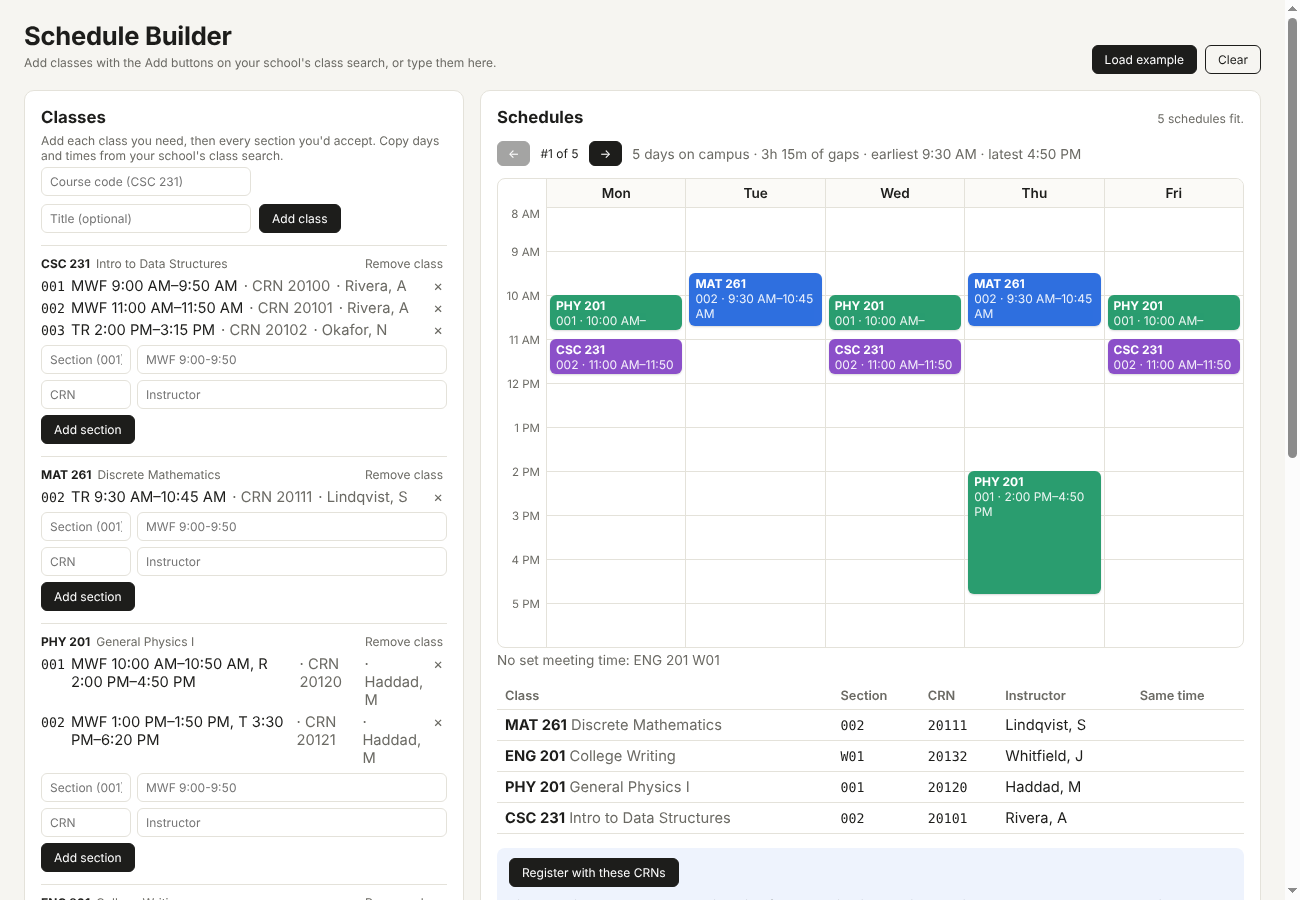
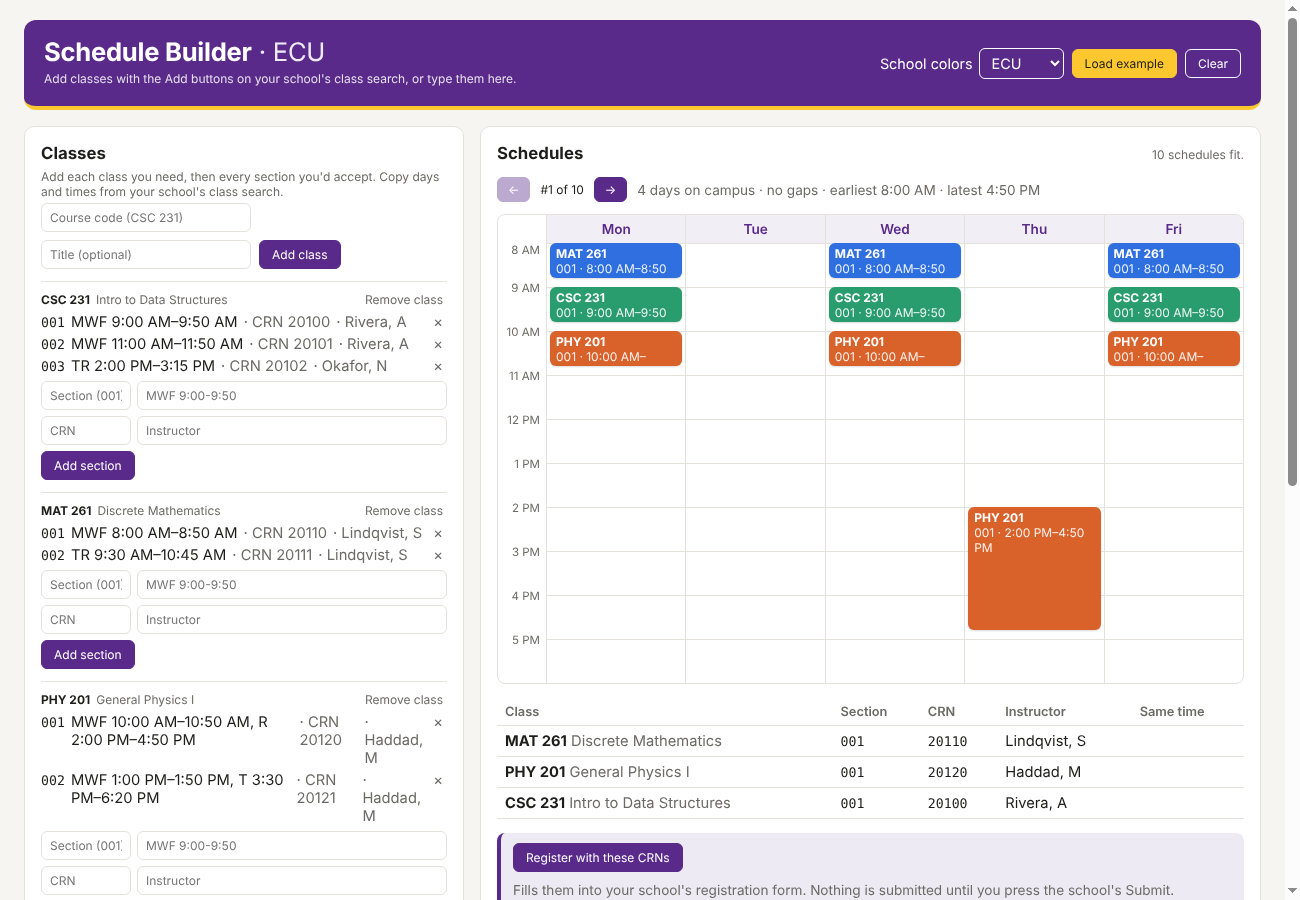
Added the school colors, will need the school webpages from friends (UNCG, UNCW, ECU)

diff --git a/frontend/src/index.css b/frontend/src/index.css
@@ -7,6 +7,9 @@
   --accent: #2f6fdf;
   --error: #b3261e;
   --ok: #1f7a4d;
+  --brand: #1d1d1b;
+  --on-brand: #ffffff;
+  --on-accent: #ffffff;
   font-family: system-ui, -apple-system, "Segoe UI", sans-serif;
   color: var(--ink);
   background: var(--bg);
@@ -14,7 +17,14 @@
 * { box-sizing: border-box; }
 body { margin: 0; }
 .app { max-width: 1320px; margin: 0 auto; padding: 20px 24px 48px; }
-header { display: flex; justify-content: space-between; align-items: flex-end; gap: 16px; margin-bottom: 16px; flex-wrap: wrap; }
+header { display: flex; justify-content: space-between; align-items: center; gap: 16px; margin-bottom: 16px; flex-wrap: wrap;
+  background: var(--brand); color: var(--on-brand); padding: 16px 20px; border-radius: 12px; border-bottom: 4px solid var(--accent); }
+header .muted { color: var(--on-brand); opacity: 0.85; }
+header button { background: var(--accent); color: var(--on-accent); border-color: var(--accent); }
+header button.secondary { background: transparent; color: var(--on-brand); border-color: var(--on-brand); }
+header select { font: inherit; padding: 5px 8px; border-radius: 6px; border: 1px solid var(--on-brand); background: transparent; color: var(--on-brand); }
+header select option { color: #1d1d1b; }
+header label { color: var(--on-brand); }
 h1 { margin: 0; font-size: 1.6rem; letter-spacing: -0.01em; }
 h2 { margin: 0 0 6px; font-size: 1.05rem; }
 h3 { margin: 16px 0 6px; font-size: 0.9rem; color: var(--muted); font-weight: 600; text-transform: uppercase; letter-spacing: 0.04em; }
@@ -37,13 +47,13 @@ input, textarea, select, button { font: inherit; }
 input, textarea { border: 1px solid var(--line); border-radius: 6px; padding: 6px 8px; background: #fff; min-width: 0; }
 input:focus, textarea:focus, button:focus-visible { outline: 2px solid var(--accent); outline-offset: 1px; }
 .narrow { width: 7.5em; }
-button { border: 1px solid var(--ink); background: var(--ink); color: #fff; border-radius: 6px; padding: 6px 12px; cursor: pointer; }
+button { border: 1px solid var(--brand); background: var(--brand); color: var(--on-brand); border-radius: 6px; padding: 6px 12px; cursor: pointer; }
 button:disabled { opacity: 0.4; cursor: default; }
-button.secondary { background: transparent; color: var(--ink); }
+button.secondary { background: transparent; color: var(--brand); }
 button.link { background: none; border: none; color: var(--muted); padding: 0 4px; margin-left: auto; }
 button.link:hover { color: var(--error); }
 .chip { background: #fff; color: var(--ink); border-color: var(--line); padding: 4px 10px; }
-.chip.on { background: var(--accent); border-color: var(--accent); color: #fff; }
+.chip.on { background: var(--brand); border-color: var(--brand); color: var(--on-brand); }
 .day-picker { display: flex; gap: 4px; flex-wrap: wrap; }
 .course { border-top: 1px solid var(--line); margin-top: 12px; padding-top: 10px; }
 .course-head { display: flex; align-items: baseline; gap: 6px; }
@@ -57,7 +67,7 @@ button.link:hover { color: var(--error); }
 .pager button { padding: 4px 10px; }
 .diagnostics { margin: 8px 0; padding-left: 18px; color: var(--error); }
 .week { display: grid; border: 1px solid var(--line); border-radius: 8px; overflow: hidden; }
-.week-head { text-align: center; font-size: 0.85rem; font-weight: 600; padding: 6px 0; border-left: 1px solid var(--line); background: #fbfaf7; }
+.week-head { text-align: center; font-size: 0.85rem; font-weight: 600; padding: 6px 0; border-left: 1px solid var(--line); background: color-mix(in srgb, var(--brand) 8%, white); color: var(--brand); }
 .hours { font-size: 0.72rem; color: var(--muted); text-align: right; }
 .hours div { padding-right: 6px; transform: translateY(-0.5em); }
 .hours div:first-child { transform: none; }
@@ -72,4 +82,6 @@ table { width: 100%; border-collapse: collapse; margin-top: 14px; font-size: 0.9
 th, td { text-align: left; padding: 6px 8px; border-bottom: 1px solid var(--line); }
 th { font-size: 0.8rem; color: var(--muted); font-weight: 600; }
 .export { margin-top: 14px; }
-.register { display: flex; gap: 10px; align-items: center; flex-wrap: wrap; margin-top: 14px; padding: 10px 12px; background: #eef3fd; border-radius: 8px; }
+.register { display: flex; gap: 10px; align-items: center; flex-wrap: wrap; margin-top: 14px; padding: 10px 12px; background: color-mix(in srgb, var(--brand) 10%, white); border-left: 4px solid var(--brand); border-radius: 8px; }
+input[type=range] { accent-color: var(--brand); }
+.school-tag { font-weight: 400; opacity: 0.9; }

diff --git a/frontend/src/extension/content/styles.ts b/frontend/src/extension/content/styles.ts
@@ -1,13 +1,15 @@
 /** Styles live inside a shadow root, so the school's CSS can't break ours and ours can't leak out. */
 export const STYLES = `
-:host { all: initial; font-family: system-ui, -apple-system, "Segoe UI", sans-serif; color: #1d1d1b; }
+:host { all: initial; --brand: #1d1d1b; --on-brand: #fff; --accent: #2f6fdf; --on-accent: #fff; font-family: system-ui, -apple-system, "Segoe UI", sans-serif; color: #1d1d1b; }
 * { box-sizing: border-box; }
 .wrap { margin: 12px 0; padding-bottom: 80px; }
-.toolbar { display: flex; justify-content: space-between; align-items: center; gap: 12px; margin-bottom: 10px; font-size: 14px; }
+.toolbar { display: flex; justify-content: space-between; align-items: center; gap: 12px; margin-bottom: 10px; font-size: 14px;
+  background: var(--brand); color: var(--on-brand); padding: 10px 14px; border-radius: 10px; border-bottom: 3px solid var(--accent); }
+.toolbar button.ghost { color: var(--on-brand); border-color: var(--on-brand); }
 .toolbar strong { font-size: 16px; }
 .cards { display: grid; gap: 12px; }
 .card { background: #fff; border: 1px solid #e4e2da; border-radius: 10px; overflow: hidden; }
-.card-head { display: flex; justify-content: space-between; align-items: center; gap: 12px; padding: 10px 14px; background: #fbfaf7; border-bottom: 1px solid #e4e2da; }
+.card-head { border-left: 4px solid var(--brand); display: flex; justify-content: space-between; align-items: center; gap: 12px; padding: 10px 14px; background: #fbfaf7; border-bottom: 1px solid #e4e2da; }
 .code { font-weight: 700; font-size: 15px; }
 .title { color: #6b6a64; margin-left: 8px; font-size: 14px; }
 table { width: 100%; border-collapse: collapse; font-size: 14px; }
@@ -15,14 +17,14 @@ th { text-align: left; font-size: 12px; color: #6b6a64; font-weight: 600; paddin
 td { padding: 8px 14px; border-top: 1px solid #efede6; vertical-align: top; }
 .mono { font-family: ui-monospace, Consolas, monospace; }
 .muted { color: #6b6a64; }
-button { font: inherit; font-size: 13px; border: 1px solid #1d1d1b; background: #1d1d1b; color: #fff; border-radius: 6px; padding: 5px 12px; cursor: pointer; white-space: nowrap; }
+button { font: inherit; font-size: 13px; border: 1px solid var(--brand); background: var(--brand); color: var(--on-brand); border-radius: 6px; padding: 5px 12px; cursor: pointer; white-space: nowrap; }
 button.ghost { background: transparent; color: #1d1d1b; border-color: #c9c4b6; }
 button.added { background: #e6f4ec; color: #1f7a4d; border-color: #b9dcc8; cursor: default; }
 button:focus-visible { outline: 2px solid #2f6fdf; outline-offset: 1px; }
 .bar { position: fixed; right: 16px; bottom: 16px; z-index: 2147483000; display: flex; align-items: center; gap: 10px;
-  background: #1d1d1b; color: #fff; border-radius: 10px; padding: 10px 14px; font-size: 14px; box-shadow: 0 4px 16px rgb(0 0 0 / 0.25); max-width: 420px; }
-.bar button { background: #fff; color: #1d1d1b; border-color: #fff; }
+  background: var(--brand); color: var(--on-brand); border-bottom: 3px solid var(--accent); border-radius: 10px; padding: 10px 14px; font-size: 14px; box-shadow: 0 4px 16px rgb(0 0 0 / 0.25); max-width: 420px; }
+.bar button { background: var(--accent); color: var(--on-accent); border-color: var(--accent); }
 .pre { white-space: pre-line; }
-.bar button.quiet { background: transparent; color: #fff; border-color: #777; }
+.bar button.quiet { background: transparent; color: var(--on-brand); border-color: var(--on-brand); }
 .bar .note { font-size: 13px; opacity: 0.9; }
 `;

diff --git a/frontend/src/App.tsx b/frontend/src/App.tsx
@@ -4,6 +4,7 @@ import { CourseEditor } from "./components/CourseEditor";
 import { PreferencesPanel } from "./components/PreferencesPanel";
 import { Results } from "./components/Results";
 import { exampleBlocks, exampleCourses } from "./lib/example";
+import { SCHOOLS, SCHOOL_KEY, themeById, themeVars } from "./lib/schools";
 import { solve } from "./lib/solver";
 import { EMPTY_STATE, PENDING_KEY, STATE_KEY, getStore, isExtension, normalizeState, type PendingCrns, type SavedState } from "./lib/storage";
 
@@ -12,6 +13,7 @@ const store = getStore();
 export default function App() {
   const [state, setState] = useState<SavedState>(EMPTY_STATE);
   const [loaded, setLoaded] = useState(false);
+  const [schoolId, setSchoolId] = useState<string>("none");
   // The last value we wrote or received, so our own writes don't echo back as "changes".
   const lastSynced = useRef<string>("");
 
@@ -22,15 +24,28 @@ export default function App() {
       setState(s);
       setLoaded(true);
     });
+    // Which school's colors to use: set automatically when the extension sees a school's site.
+    store.get<string>(SCHOOL_KEY).then((id) => setSchoolId(themeById(id).id));
+    const stopSchool = store.onChange(SCHOOL_KEY, (id) => setSchoolId(themeById(id as string).id));
     // The school page adds classes by writing to the same storage.
-    return store.onChange(STATE_KEY, (raw) => {
+    const stopState = store.onChange(STATE_KEY, (raw) => {
       const s = normalizeState(raw);
       const json = JSON.stringify(s);
       if (json === lastSynced.current) return;
       lastSynced.current = json;
       setState(s);
     });
+    return () => {
+      stopSchool();
+      stopState();
+    };
   }, []);
+
+  useEffect(() => {
+    const theme = themeById(schoolId);
+    for (const [name, value] of Object.entries(themeVars(theme))) document.documentElement.style.setProperty(name, value);
+    document.title = theme.id === "none" ? "Schedule Builder" : `Schedule Builder · ${theme.name}`;
+  }, [schoolId]);
 
   useEffect(() => {
     if (!loaded) return; // never overwrite saved data with the empty starting state
@@ -53,7 +68,7 @@ export default function App() {
     <div className="app">
       <header>
         <div>
-          <h1>Schedule Builder</h1>
+          <h1>Schedule Builder{schoolId !== "none" && <span className="school-tag"> · {themeById(schoolId).name}</span>}</h1>
           <p className="muted">
             {isExtension()
               ? "Add classes with the Add buttons on your school's class search, or type them here."
@@ -61,6 +76,12 @@ export default function App() {
           </p>
         </div>
         <div className="row">
+          <label>School colors
+            <select value={schoolId} onChange={(e) => { setSchoolId(e.target.value); void store.set(SCHOOL_KEY, e.target.value); }}>
+              <option value="none">None</option>
+              {SCHOOLS.map((s) => <option key={s.id} value={s.id}>{s.name}</option>)}
+            </select>
+          </label>
           <button type="button" onClick={() => set({ courses: exampleCourses(), blocks: exampleBlocks() })}>Load example</button>
           <button type="button" className="secondary" onClick={() => {
             if (confirm("Clear all classes, busy times and preferences?")) setState(EMPTY_STATE);

diff --git a/frontend/src/extension/content/main.ts b/frontend/src/extension/content/main.ts
@@ -1,4 +1,5 @@
 import { mergeCourses, normalizeCode } from "../../lib/state";
+import { SCHOOL_KEY, schoolForHost, themeById, type SchoolTheme } from "../../lib/schools";
 import { PENDING_KEY, STATE_KEY, getStore, normalizeState, type PendingCrns, type SavedState } from "../../lib/storage";
 import type { Course, Section } from "../../lib/types";
 import { adapterFor } from "./adapters";
@@ -12,7 +13,7 @@ const PENDING_MAX_AGE_MS = 6 * 60 * 60 * 1000; // stale CRNs from hours ago shou
 
 const store = getStore();
 
-async function run(adapter: SchoolAdapter): Promise<void> {
+async function run(adapter: SchoolAdapter, theme: SchoolTheme): Promise<void> {
   let state: SavedState = normalizeState(await store.get(STATE_KEY));
   let pending = await store.get<PendingCrns>(PENDING_KEY);
   let showingOurs = true;
@@ -46,7 +47,7 @@ async function run(adapter: SchoolAdapter): Promise<void> {
     lastSignature = signature;
 
     if (results && results.courses.length > 0) {
-      const { host, root } = shadowHost(document, RESULTS_HOST);
+      const { host, root } = shadowHost(document, RESULTS_HOST, theme);
       if (host.nextElementSibling !== results.container) results.container.before(host);
       results.container.style.display = showingOurs ? "none" : "";
       renderResults(root, {
@@ -58,7 +59,7 @@ async function run(adapter: SchoolAdapter): Promise<void> {
       document.getElementById(RESULTS_HOST)?.remove();
     }
 
-    const { host: barHost, root: barRoot } = shadowHost(document, BAR_HOST);
+    const { host: barHost, root: barRoot } = shadowHost(document, BAR_HOST, theme);
     if (!barHost.isConnected) document.body.append(barHost);
     if (form && (freshPending || fillMessage)) {
       renderFillBar(barRoot, {
@@ -104,5 +105,26 @@ async function run(adapter: SchoolAdapter): Promise<void> {
   render(true);
 }
 
-const adapter = adapterFor(new URL(location.href));
-if (adapter) void run(adapter);
+/**
+ * The school comes from the site's address (anything under ecu.edu is ECU, and so on).
+ * The made-up test pages can pretend to be a school with ?school=ecu so themes can be tried.
+ */
+async function detectTheme(url: URL, adapter: SchoolAdapter): Promise<SchoolTheme> {
+  const fromHost = schoolForHost(url.hostname);
+  if (fromHost) return fromHost;
+  if (adapter.id === "demo") {
+    const asked = url.searchParams.get("school");
+    return themeById(asked ?? (await store.get<string>(SCHOOL_KEY)));
+  }
+  return themeById(null);
+}
+
+const url = new URL(location.href);
+const adapter = adapterFor(url);
+if (adapter) {
+  void detectTheme(url, adapter).then((theme) => {
+    // Remember it so the planner tab uses the same colors.
+    if (theme.id !== "none") void store.set(SCHOOL_KEY, theme.id);
+    return run(adapter, theme);
+  });
+}

diff --git a/frontend/src/lib/schools.ts b/frontend/src/lib/schools.ts
@@ -1,0 +1,45 @@
+/**
+ * School color themes. Colors come from each school's own brand pages:
+ * ECU purple from brand.ecu.edu; UNCW teal (#007680, updated July 2025) from uncw.edu;
+ * UNCG navy and gold from webassets.uncg.edu. Colors only: no logos or wordmarks.
+ */
+export interface SchoolTheme {
+  id: string;
+  name: string;
+  /** Any web address ending in one of these belongs to the school. */
+  domains: string[];
+  /** Main color (headers, main buttons) and the text color that reads on it. */
+  brand: string;
+  onBrand: string;
+  /** Second color for highlights. */
+  accent: string;
+  onAccent: string;
+}
+
+export const DEFAULT_THEME: SchoolTheme = {
+  id: "none", name: "No school colors", domains: [],
+  brand: "#1d1d1b", onBrand: "#ffffff", accent: "#2f6fdf", onAccent: "#ffffff",
+};
+
+export const SCHOOLS: SchoolTheme[] = [
+  { id: "ecu", name: "ECU", domains: ["ecu.edu"], brand: "#592A8A", onBrand: "#ffffff", accent: "#FDC82F", onAccent: "#1d1d1b" },
+  { id: "uncw", name: "UNCW", domains: ["uncw.edu"], brand: "#007680", onBrand: "#ffffff", accent: "#F3E389", onAccent: "#003366" },
+  { id: "uncg", name: "UNCG", domains: ["uncg.edu"], brand: "#0F2044", onBrand: "#ffffff", accent: "#FFB71B", onAccent: "#0F2044" },
+];
+
+export const SCHOOL_KEY = "schedule-builder:school";
+
+export function themeById(id: string | undefined | null): SchoolTheme {
+  return SCHOOLS.find((s) => s.id === id) ?? DEFAULT_THEME;
+}
+
+/** Which school a web address belongs to, by its domain (any subdomain counts). */
+export function schoolForHost(hostname: string): SchoolTheme | undefined {
+  const host = hostname.toLowerCase();
+  return SCHOOLS.find((s) => s.domains.some((d) => host === d || host.endsWith(`.${d}`)));
+}
+
+/** CSS custom properties for a theme, used by both the planner and the school page. */
+export function themeVars(t: SchoolTheme): Record<string, string> {
+  return { "--brand": t.brand, "--on-brand": t.onBrand, "--accent": t.accent, "--on-accent": t.onAccent };
+}

diff --git a/frontend/src/extension/content/view.ts b/frontend/src/extension/content/view.ts
@@ -1,6 +1,8 @@
 import { formatTime } from "../../lib/time";
 import type { Course, Section } from "../../lib/types";
 import { STYLES } from "./styles";
+import type { SchoolTheme } from "../../lib/schools";
+import { themeVars } from "../../lib/schools";
 
 function el<K extends keyof HTMLElementTagNameMap>(tag: K, props: Partial<HTMLElementTagNameMap[K]> = {}, ...children: Array<Node | string>): HTMLElementTagNameMap[K] {
   const node = Object.assign(document.createElement(tag), props);
@@ -9,13 +11,14 @@ function el<K extends keyof HTMLElementTagNameMap>(tag: K, props: Partial<HTMLEl
 }
 
 /** A host element with a shadow root and our styles. Reused if it already exists. */
-export function shadowHost(doc: Document, id: string): { host: HTMLElement; root: ShadowRoot } {
+export function shadowHost(doc: Document, id: string, theme: SchoolTheme): { host: HTMLElement; root: ShadowRoot } {
   let host = doc.getElementById(id);
   if (!host) {
     host = doc.createElement("div");
     host.id = id;
     host.attachShadow({ mode: "open" });
   }
+  for (const [name, value] of Object.entries(themeVars(theme))) host.style.setProperty(name, value);
   const root = host.shadowRoot!;
   root.replaceChildren(el("style", { textContent: STYLES }));
   return { host, root };

diff --git a/frontend/src/lib/schools.test.ts b/frontend/src/lib/schools.test.ts
@@ -1,0 +1,21 @@
+import { expect, it } from "vitest";
+import { DEFAULT_THEME, schoolForHost, themeById, themeVars } from "./schools";
+
+it("recognizes each school from any of its subdomains", () => {
+  expect(schoolForHost("ssb.ecu.edu")?.id).toBe("ecu");
+  expect(schoolForHost("ECU.EDU")?.id).toBe("ecu");
+  expect(schoolForHost("registration.uncw.edu")?.id).toBe("uncw");
+  expect(schoolForHost("banner.uncg.edu")?.id).toBe("uncg");
+});
+
+it("does not match look-alike domains", () => {
+  expect(schoolForHost("notecu.edu")).toBeUndefined();
+  expect(schoolForHost("ecu.edu.evil.com")).toBeUndefined();
+  expect(schoolForHost("localhost")).toBeUndefined();
+});
+
+it("falls back to the plain theme", () => {
+  expect(themeById("nope")).toBe(DEFAULT_THEME);
+  expect(themeById(undefined)).toBe(DEFAULT_THEME);
+  expect(themeVars(themeById("ecu"))["--brand"]).toBe("#592A8A");
+});

diff --git a/README.md b/README.md
@@ -7,7 +7,7 @@ schedule planning feels at NC State.
 **Status: the extension works end to end on made-up test pages. No real school is supported yet.**
 Each school needs a small "adapter" written from saved copies of its actual pages (see below).
 
-![The planner showing a ranked weekly schedule](docs/screenshot.png)
+![The planner in ECU colors showing a ranked weekly schedule](docs/screenshot.png)
 
 ## How it works
 
@@ -21,6 +21,11 @@ Each school needs a small "adapter" written from saved copies of its actual page
    with the school's own button, so holds, prerequisites and errors are handled by the school.
 
 ![The restyled class search on the test page](docs/extension-class-search.png)
+
+**School colors.** The extension recognizes the school from the site's address (anything under
+ecu.edu, uncw.edu or uncg.edu) and uses that school's colors on its class cards and in the planner:
+ECU purple and gold, UNCW teal and gold, UNCG navy and gold. The planner also has a "School colors"
+menu to pick one by hand. Colors only: no school logos or wordmarks.
 
 The extension only reads pages you already have open while logged in. It never sees your password,
 never contacts any server, and keeps your classes in your own browser.
@@ -52,7 +57,7 @@ A randomized test compares the search against a brute-force version on 500 rando
 ```bash
 cd frontend
 npm install
-npm test          # 63 tests
+npm test          # 66 tests
 npm run build     # creates frontend/dist, the extension
 npm run dev       # serves the made-up test pages at http://localhost:5173/demo/browse.html
 ```
@@ -61,7 +66,8 @@ Load the extension in Chrome or Edge:
 
 1. Go to `chrome://extensions` and turn on **Developer mode** (top right).
 2. Click **Load unpacked** and choose the `frontend/dist` folder.
-3. With `npm run dev` running, open http://localhost:5173/demo/browse.html, add some classes,
+3. With `npm run dev` running, open http://localhost:5173/demo/browse.html (add `?school=ecu`,
+   `?school=uncw` or `?school=uncg` to try each school's colors), add some classes,
    click **Open planner**, then **Register with these CRNs**, then open the test page's
    "Register for Classes" link and click **Fill my CRNs**.
 
